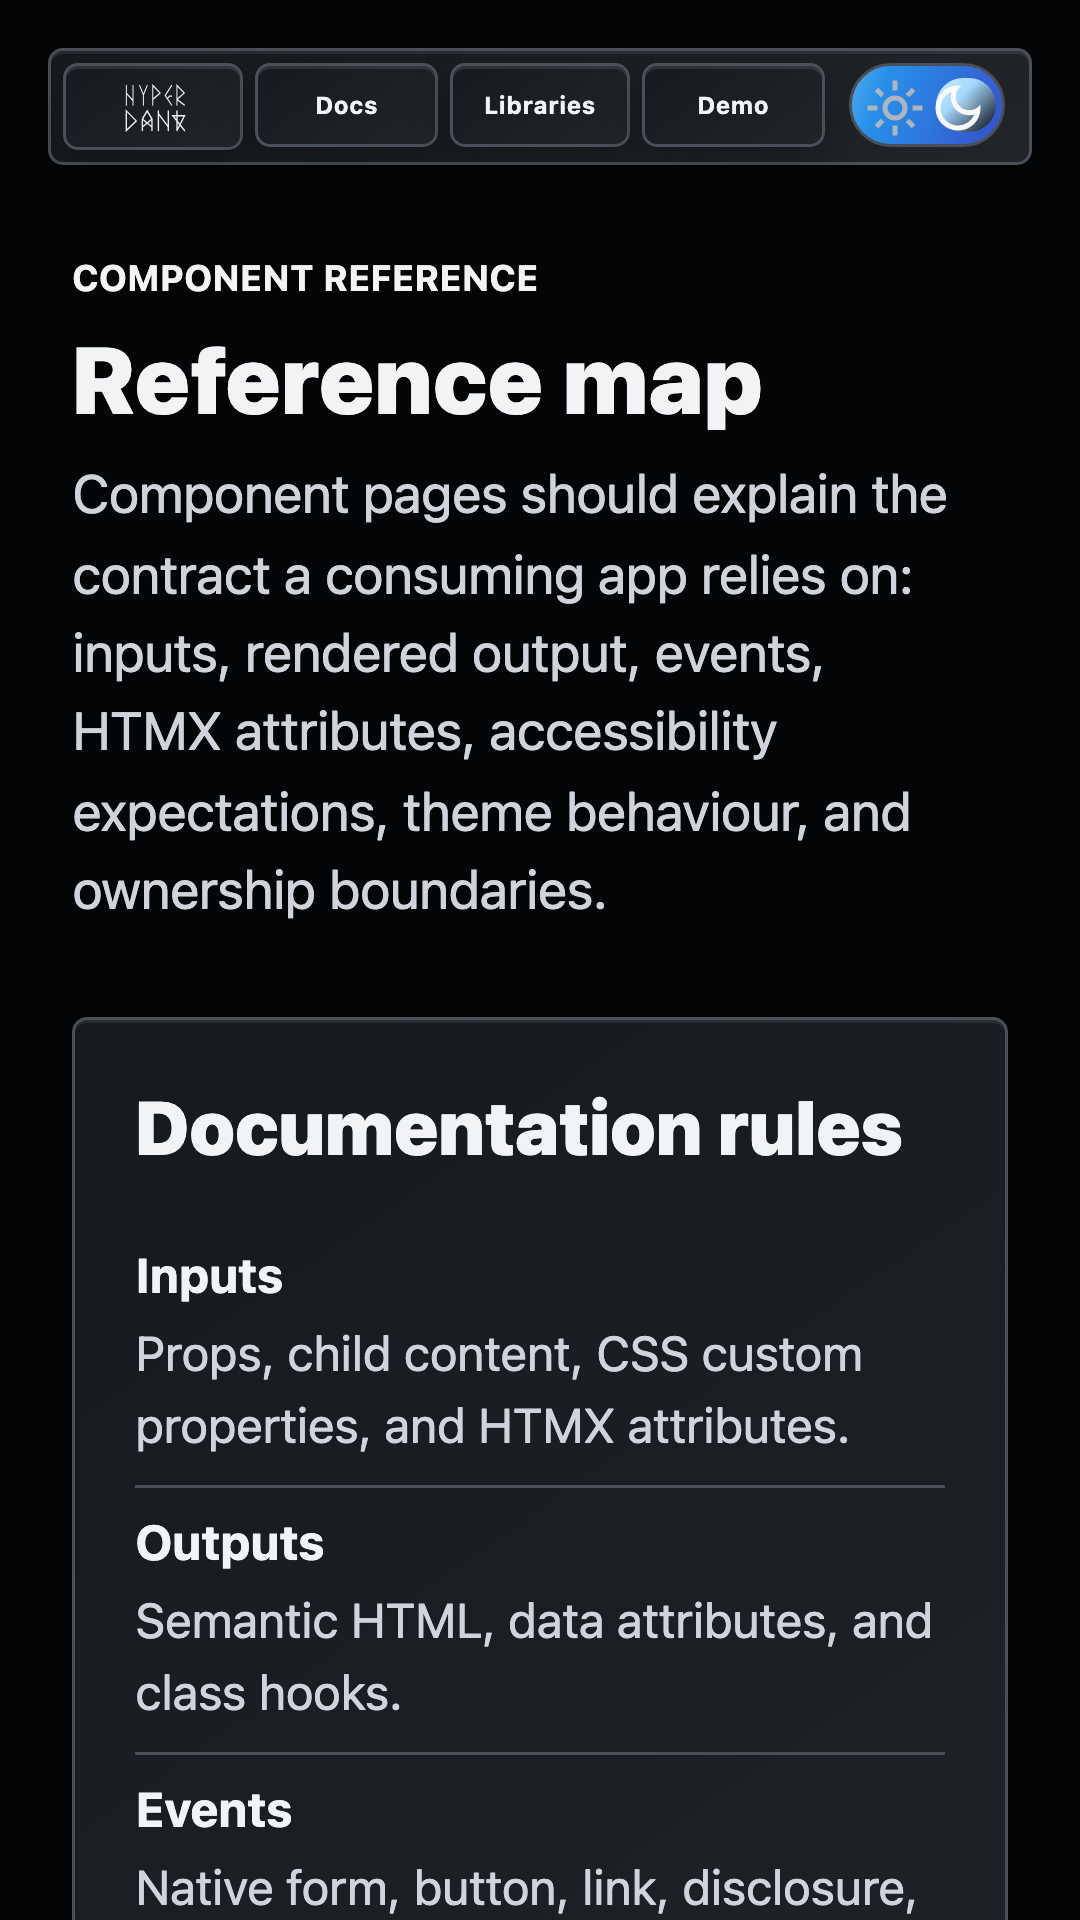
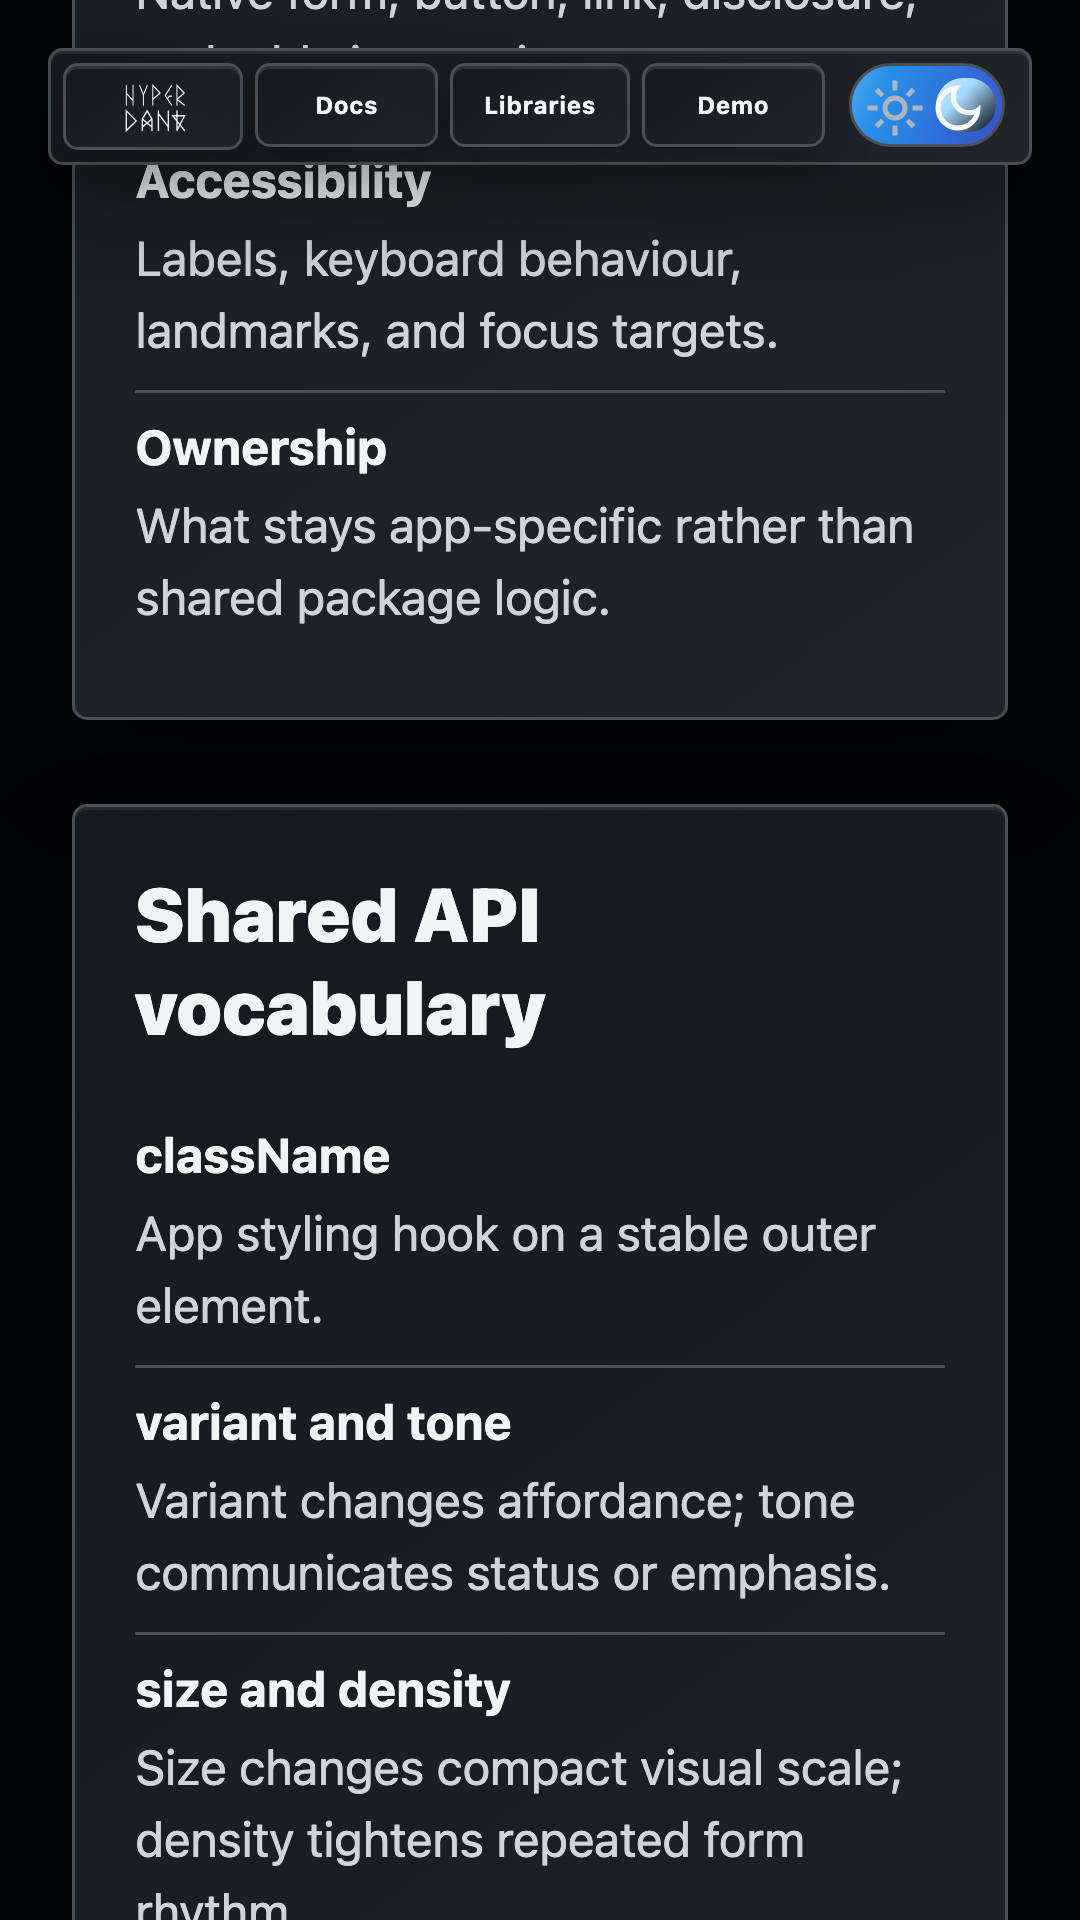
docs(ui): focus API vocabulary PR screenshots

diff --git a/apps/walking-pace/scripts/lib/screenshot-flows.ts b/apps/walking-pace/scripts/lib/screenshot-flows.ts
@@ -364,6 +364,7 @@ export const screenshotFlows: ScreenshotFlow[] = [
         label: "Component contracts vocabulary",
         path: "/storybook/iframe.html?id=introduction-component-contracts--reference-map",
         slug: "component-contracts-vocabulary",
+        afterLoad: scrollApiVocabularyIntoView,
       },
     ],
   },
@@ -507,6 +508,10 @@ async function scrollStagedFormActionsIntoView({ page }: ScreenshotFlowContext) 
 
 async function scrollQuietSurfaceIntoView({ page }: ScreenshotFlowContext) {
   await page.locator("#quiet-surface-heading").scrollIntoViewIfNeeded();
+}
+
+async function scrollApiVocabularyIntoView({ page }: ScreenshotFlowContext) {
+  await page.locator("#api-vocabulary-heading").scrollIntoViewIfNeeded();
 }
 
 async function openConfirmDialogPrimitive({ page }: ScreenshotFlowContext) {
